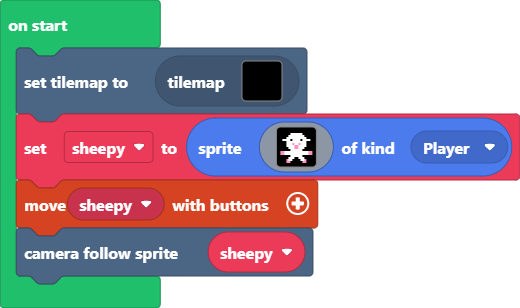
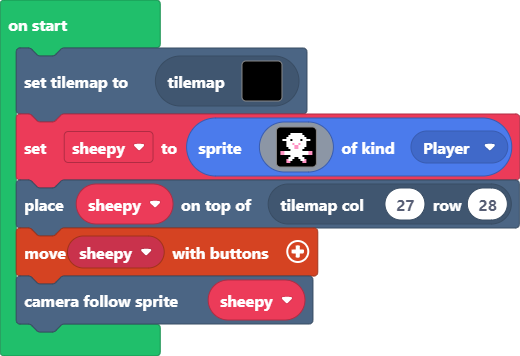
tilemap v2

diff --git a/tilemap.g.ts b/tilemap.g.ts
@@ -24,6 +24,41 @@ namespace myTiles {
 . 2 2 2 2 2 2 2 2 2 2 . 2 2 2 . 
 . . . . . . . . . . . . . . . . 
 `, [myTiles.transparency16], TileScale.Sixteen);
+            case "tecnique1":
+            case "tecnique1":return tiles.createTilemap(hex`2000200000000000000000000000000000000000000000000000000000000000000000000000000000000000000000000000000000000000000000000000000000000000000000000000000000000000000000000000000000000000000000000000000000000000000000000000000000000000000000000000000000000000000000000000000000000000000000000000000000000000000000000000000000000000000000000000000000000000000000000000000000000000000000000000000000000000000000000000000000000000000000000000000000000000000000000000000000000000000000000000000000000000000000000000000000000000000000000000000000000000000000000000000000000000000000000000000000000000000000000000000000000000000000000000000000000000000000000000000000000000000000000000000000000000000000000000000000000000000000000000000000000000000000000000000000000000000000000000000000000000000000000000000000000000000000000000000000000000000000000000000000000000000000000000000000000000000000000000000000000000000000000000000000000000000000000000000000000000000000000000000000000000000000000000000000000000000000000000000000000000000000000000000000000000000000000000000000000000000000000000000000000000000000000000000000000000000000000000000000000000000000000000000000000000000000000000000000000000000000000000000000000000000000000000000000000000000000000000000000000000000000000000000000000000000000000000000000000000000000000000000000000000000000000000000000000000000000000000000000000000000000000000000000000000000000000000000000000000000000000000000000000000000000000000000000000000000000000000000000000000000000000000000000000000000000000000000000000000000000000000000000000000000000000000000000000000000000000000000000000000000000000000000000000000000000000000000000000000000000000000000000000000000000000000000000000000000000000000000000000000000000000000000000000000000000000000000000000000000000000000000000000000000000000000000000000000000000000000000000000000000000000000000000000000000000000000000000000000000000000000000000000000000000000000000000000000000000000000000000000000000000000000000000000000000000000000000000000000000000000000000000000000`, img`
+................................
+.222222222222222222222222222222.
+.2.....2.......2...2....2...2.2.
+.2.222.2.22222...2...22...2...2.
+.2.2.2...222.22222222.2222222.2.
+.2.2.222222..2......2.......2.2.
+.2.......22.22.2222.2.22222.2.2.
+.2222.22.22..2....2.2...2.2...2.
+.2.22.22.22.22.22.2..22.2.22.22.
+.2....22.2...2.22.22....2....22.
+.2222222.222.2222.2222222.22222.
+.2.........2............2.2.2.2.
+.22.222222.222222222222.2.2...2.
+.2.....2...2....2...2.2.2.2.2.2.
+.22222.22222..2...2...2.2...2...
+.2.......2...22222222.2.2222222.
+.222.22222.2..2...2.2.2...2.2.2.
+.2.2.2.....2....2...2.2.2.2...2.
+.2...2.22222222222222.222.2.2.2.
+.2.222.2222...22......2.2...2.2.
+.2.22.....2.2.2..2.2222.2222222.
+.2.22.222.2.2.2222.2..........2.
+.2.2..222.2.2.2....2222.22222.2.
+.2.2222...2.2.2.22......2...2.2.
+.2.2....2.2.2.2..22222222.2.2.2.
+.2.2.2222.2.2222.2........2.222.
+.2.2...2..2..2.2.2.22222222...2.
+.2.222.2.2.2.2.2.2....2.2.222.2.
+.2.222.2.2.2.2.2.2...22.2.2.2.2.
+.2.....2.....2..........2.....2.
+.222222222222222222222222222222.
+................................
+`, [myTiles.transparency16], TileScale.Sixteen);
         }
         return null;
     })

diff --git a/main.ts b/main.ts
@@ -1,4 +1,5 @@
-tiles.setCurrentTilemap(tilemap`yesss`)
+tiles.setCurrentTilemap(tilemap`tecnique1`)
 let sheepy = sprites.create(assets.image`sheepy`, SpriteKind.Player)
+tiles.placeOnTile(sheepy, tiles.getTileLocation(27, 28))
 controller.moveSprite(sheepy)
 scene.cameraFollowSprite(sheepy)
